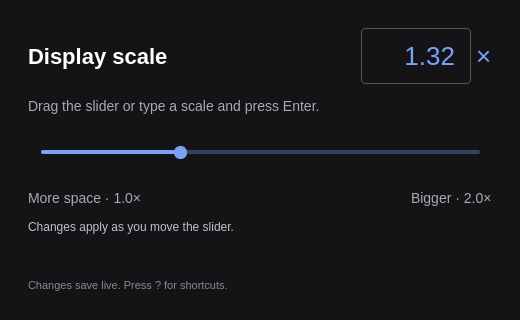
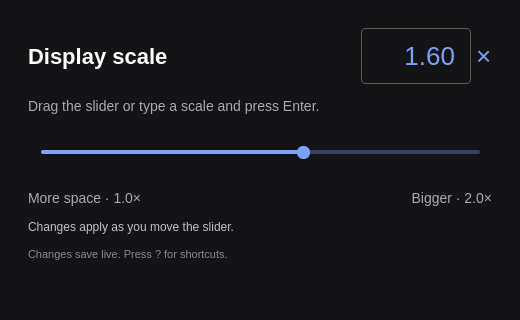
Adapt scale controls to small tiled windows

diff --git a/src/Main.qml b/src/Main.qml
@@ -6,7 +6,7 @@ import QtQuick.Layouts
 ApplicationWindow {
     id: win
     width: 520; height: 320
-    minimumWidth: 420; minimumHeight: 300
+    minimumWidth: 240; minimumHeight: 140
     visible: true
     title: qsTr("Scale Slider")
     color: "#141416"
@@ -31,16 +31,36 @@ ApplicationWindow {
         anchors.fill: parent
         LayoutMirroring.enabled: Qt.application.layoutDirection === Qt.RightToLeft
         LayoutMirroring.childrenInherit: true
-        ColumnLayout {
-            anchors.fill: parent; anchors.margins: 28; spacing: 14
+        ScrollView {
+            id: viewport
+            anchors.fill: parent
+            anchors.margins: win.width < 400 || win.height < 260 ? 12 : 28
+            clip: true
+            contentWidth: availableWidth
+            contentHeight: content.implicitHeight
+            ScrollBar.horizontal.policy: ScrollBar.AlwaysOff
+            ColumnLayout {
+            id: content
+            width: viewport.availableWidth
+            spacing: win.height < 260 ? 6 : 14
             RowLayout {
                 Layout.fillWidth: true
-                Label { text: qsTr("Display scale"); font.pixelSize: 22; font.bold: true; Layout.fillWidth: true }
+                Label {
+                    objectName: "scaleHeading"
+                    text: win.width < 400 ? qsTr("Scale") : qsTr("Display scale")
+                    font.pixelSize: win.width < 400 ? 18 : 22
+                    font.bold: true
+                    Layout.fillWidth: true
+                    Layout.minimumWidth: 0
+                    elide: Text.ElideRight
+                }
                 TextField {
                     id: scaleInput
                     objectName: "scaleInput"
-                    Layout.preferredWidth: 110
-                    font.pixelSize: 26
+                    Layout.preferredWidth: win.width < 400 ? 88 : 110
+                    Layout.minimumWidth: win.width < 400 ? 88 : 110
+                    Layout.maximumWidth: Layout.preferredWidth
+                    font.pixelSize: win.width < 400 ? 20 : 26
                     color: acceptableInput ? theme.accent : "#ff9090"
                     horizontalAlignment: TextInput.AlignRight
                     selectByMouse: true
@@ -66,7 +86,7 @@ ApplicationWindow {
                 }
                 Label { text: "×"; color: theme.accent; font.pixelSize: 26 }
             }
-            Label { text: qsTr("Drag the slider or type a scale and press Enter."); color: "#a9a9b1"; Layout.fillWidth: true; wrapMode: Text.WordWrap }
+            Label { visible: win.height >= 260; text: qsTr("Drag the slider or type a scale and press Enter."); color: "#a9a9b1"; Layout.fillWidth: true; wrapMode: Text.WordWrap }
             Slider {
                 id: slider; objectName: "scaleSlider"
                 Layout.fillWidth: true; from: 1; to: 2; stepSize: 0.01
@@ -85,16 +105,27 @@ ApplicationWindow {
             }
             RowLayout {
                 Layout.fillWidth: true
-                Label { text: qsTr("More space · 1.0×"); color: "#a9a9b1"; Layout.fillWidth: true }
-                Label { text: qsTr("Bigger · 2.0×"); color: "#a9a9b1" }
+                Label {
+                    text: qsTr("More space · 1.0×"); color: "#a9a9b1"
+                    font.pixelSize: win.width < 400 ? 11 : 14
+                    Layout.fillWidth: true; Layout.minimumWidth: 0
+                    wrapMode: Text.WordWrap
+                }
+                Label {
+                    text: qsTr("Bigger · 2.0×"); color: "#a9a9b1"
+                    font.pixelSize: win.width < 400 ? 11 : 14
+                    Layout.fillWidth: true; Layout.minimumWidth: 0
+                    horizontalAlignment: Text.AlignRight; wrapMode: Text.WordWrap
+                }
             }
             Label {
                 text: backend.status
                 color: backend.failed ? "#ff9090" : "#bfc0c7"
-                font.pixelSize: 12; Layout.fillWidth: true; Layout.fillHeight: true
+                font.pixelSize: 12; Layout.fillWidth: true
                 wrapMode: Text.WordWrap
             }
-            Label { text: win.helpVisible ? qsTr("← / → Adjust   ·   Scroll Adjust   ·   Ctrl+Z Undo\nCtrl+Shift+Z Redo   ·   Space Focus slider   ·   Q Close") : qsTr("Changes save live. Press ? for shortcuts."); color: "#888891"; font.pixelSize: 11; Layout.fillWidth: true; wrapMode: Text.WordWrap }
+            Label { visible: win.height >= 260 || win.helpVisible; text: win.helpVisible ? qsTr("← / → Adjust   ·   Scroll Adjust   ·   Ctrl+Z Undo\nCtrl+Shift+Z Redo   ·   Space Focus slider   ·   Q Close") : qsTr("Changes save live. Press ? for shortcuts."); color: "#888891"; font.pixelSize: 11; Layout.fillWidth: true; wrapMode: Text.WordWrap }
+            }
         }
     }
 }

diff --git a/tests/scale-slider_tests.cpp b/tests/scale-slider_tests.cpp
@@ -91,6 +91,18 @@ private slots:
         QCOMPARE(backend.scale(), 1.37);
         QTest::keyClick(window, Qt::Key_Escape);
         QCOMPARE(input->property("text").toString(), QString("1.37"));
+        // Tiling can force the app below its requested size as scale increases.
+        for (const auto &size : {QSize(282, 168), QSize(240, 140), QSize(520, 320)}) {
+            window->resize(size); QTest::qWait(30);
+            auto heading = window->findChild<QQuickItem *>("scaleHeading"); QVERIFY(heading);
+            const QRectF headingRect(heading->mapToScene(QPointF()), heading->size());
+            const QRectF inputRect(input->mapToScene(QPointF()), input->size());
+            const QRectF sliderRect(slider->mapToScene(QPointF()), slider->size());
+            QVERIFY2(!headingRect.intersects(inputRect), "Heading overlaps the scale field");
+            QVERIFY2(sliderRect.top() >= inputRect.bottom(), "Slider overlaps the scale field");
+            QVERIFY(sliderRect.width() > 100);
+            QVERIFY(inputRect.right() <= window->width());
+        }
     }
 };
 int main(int argc, char **argv) {
